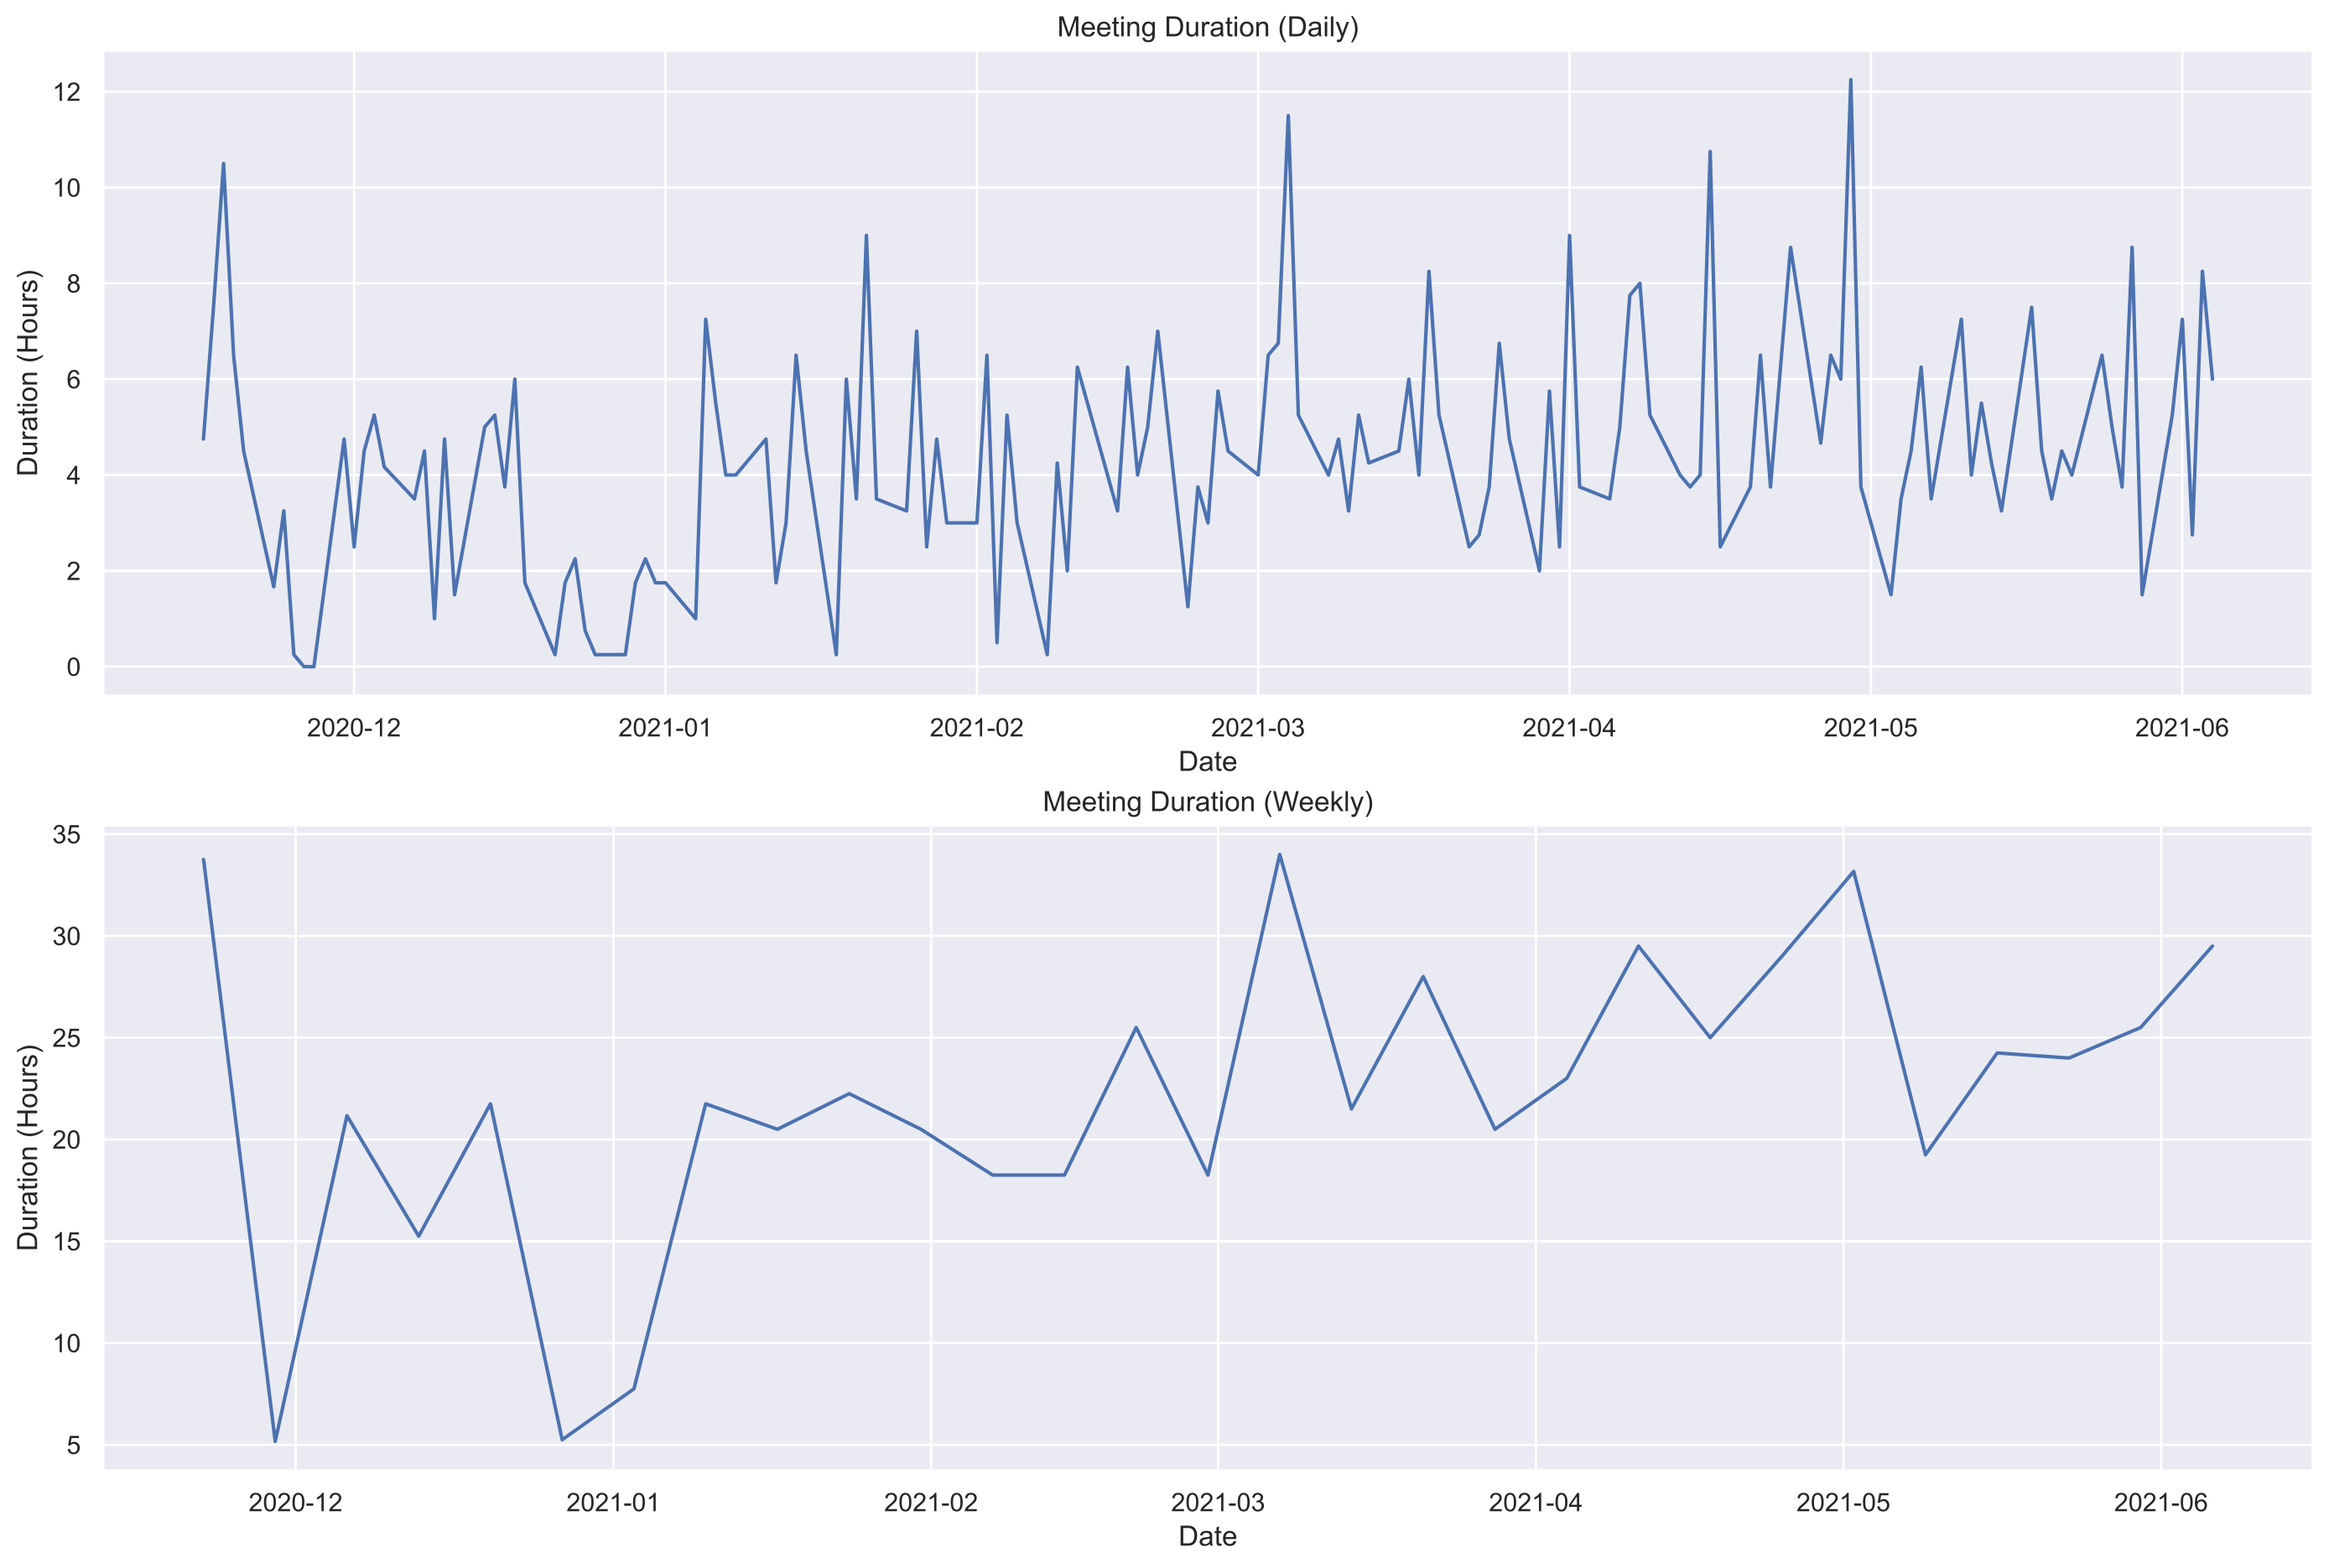
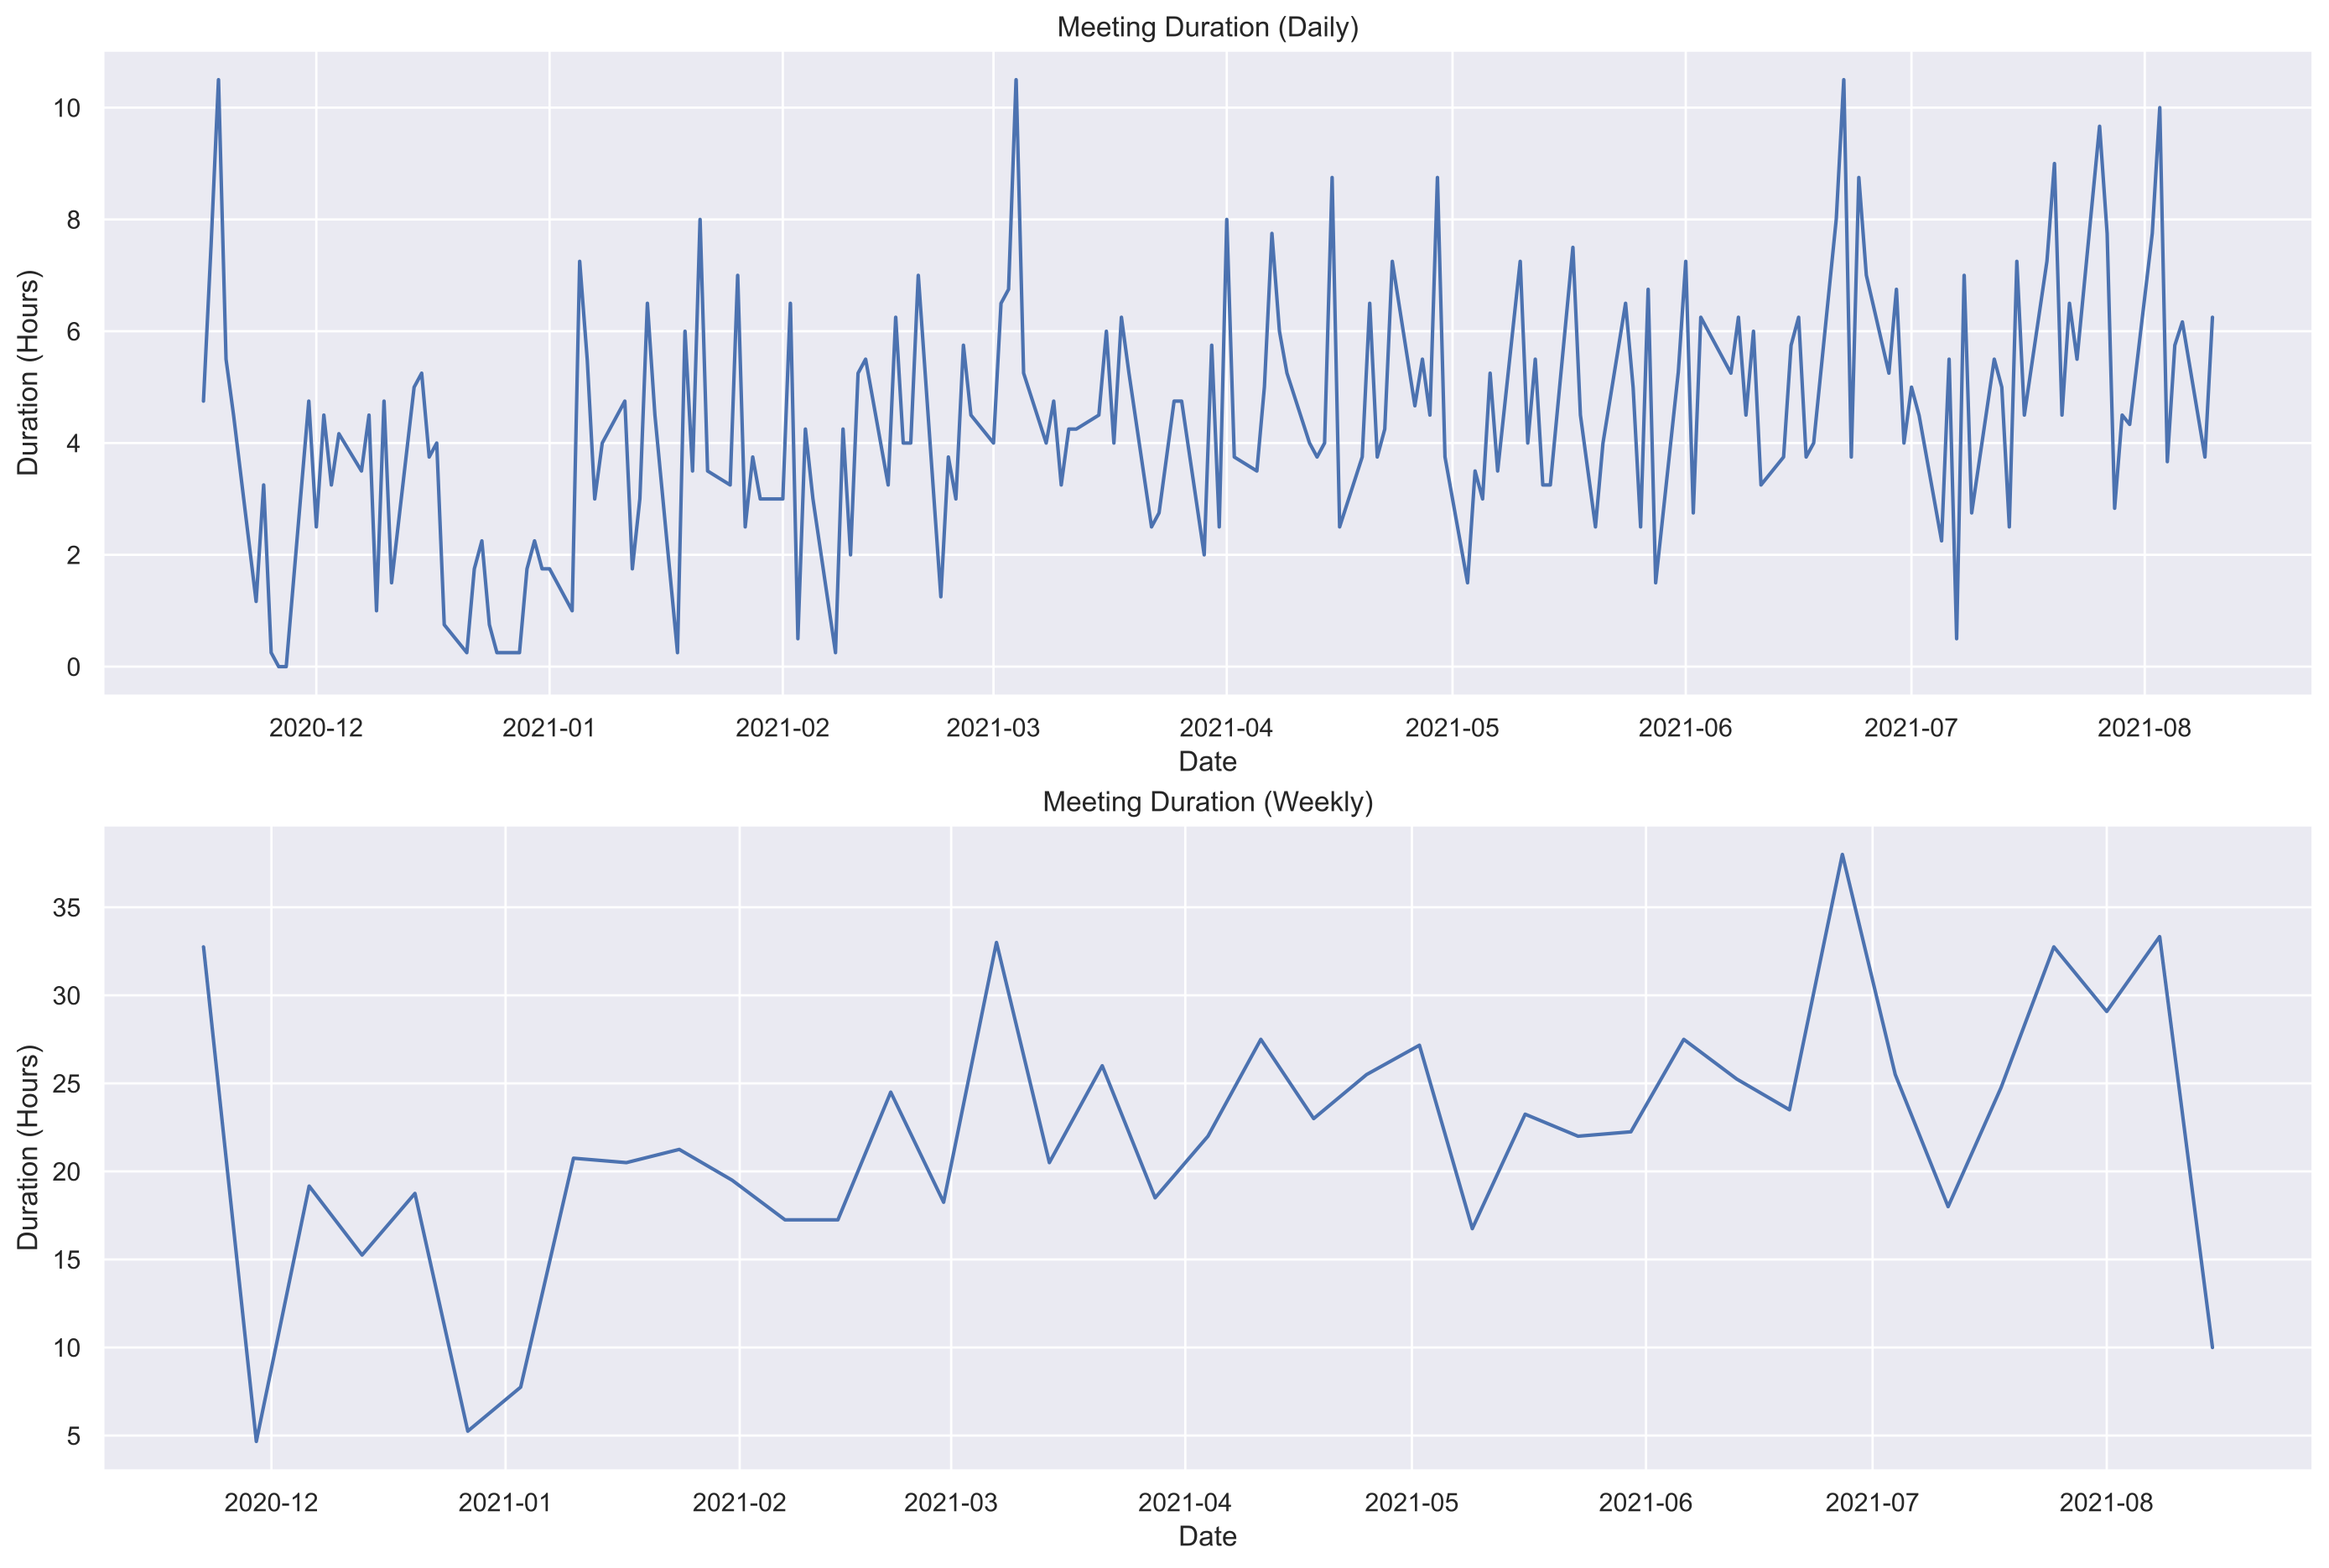
Updated script and data.

diff --git a/MeetingStats.py b/MeetingStats.py
@@ -18,8 +18,11 @@ from pandas.plotting import register_matplotlib_converters
 
 # Parameters
 start_date = dt.datetime(2020, 11, 16)
-end_date = dt.datetime(2021, 6, 4)
-PTO_list = ["Company Holiday", "JW - PTO"]
+end_date = dt.datetime(2021, 8, 10)
+PTO_list = ["Company Holiday", "JW - PTO", "BIP JIRA Sync", "Flight",
+            "People Ops/Finance Office Hours", "P&C Planning Meeting Pre-Read",
+            "Office Hours", "Part Time Approval", "Busy", "NO MEETING BLOCK",
+            "Hold for Eng Leads", "People Ops/Finance/Exec Office Hours"]
 
 
 class CalendarEvent:
